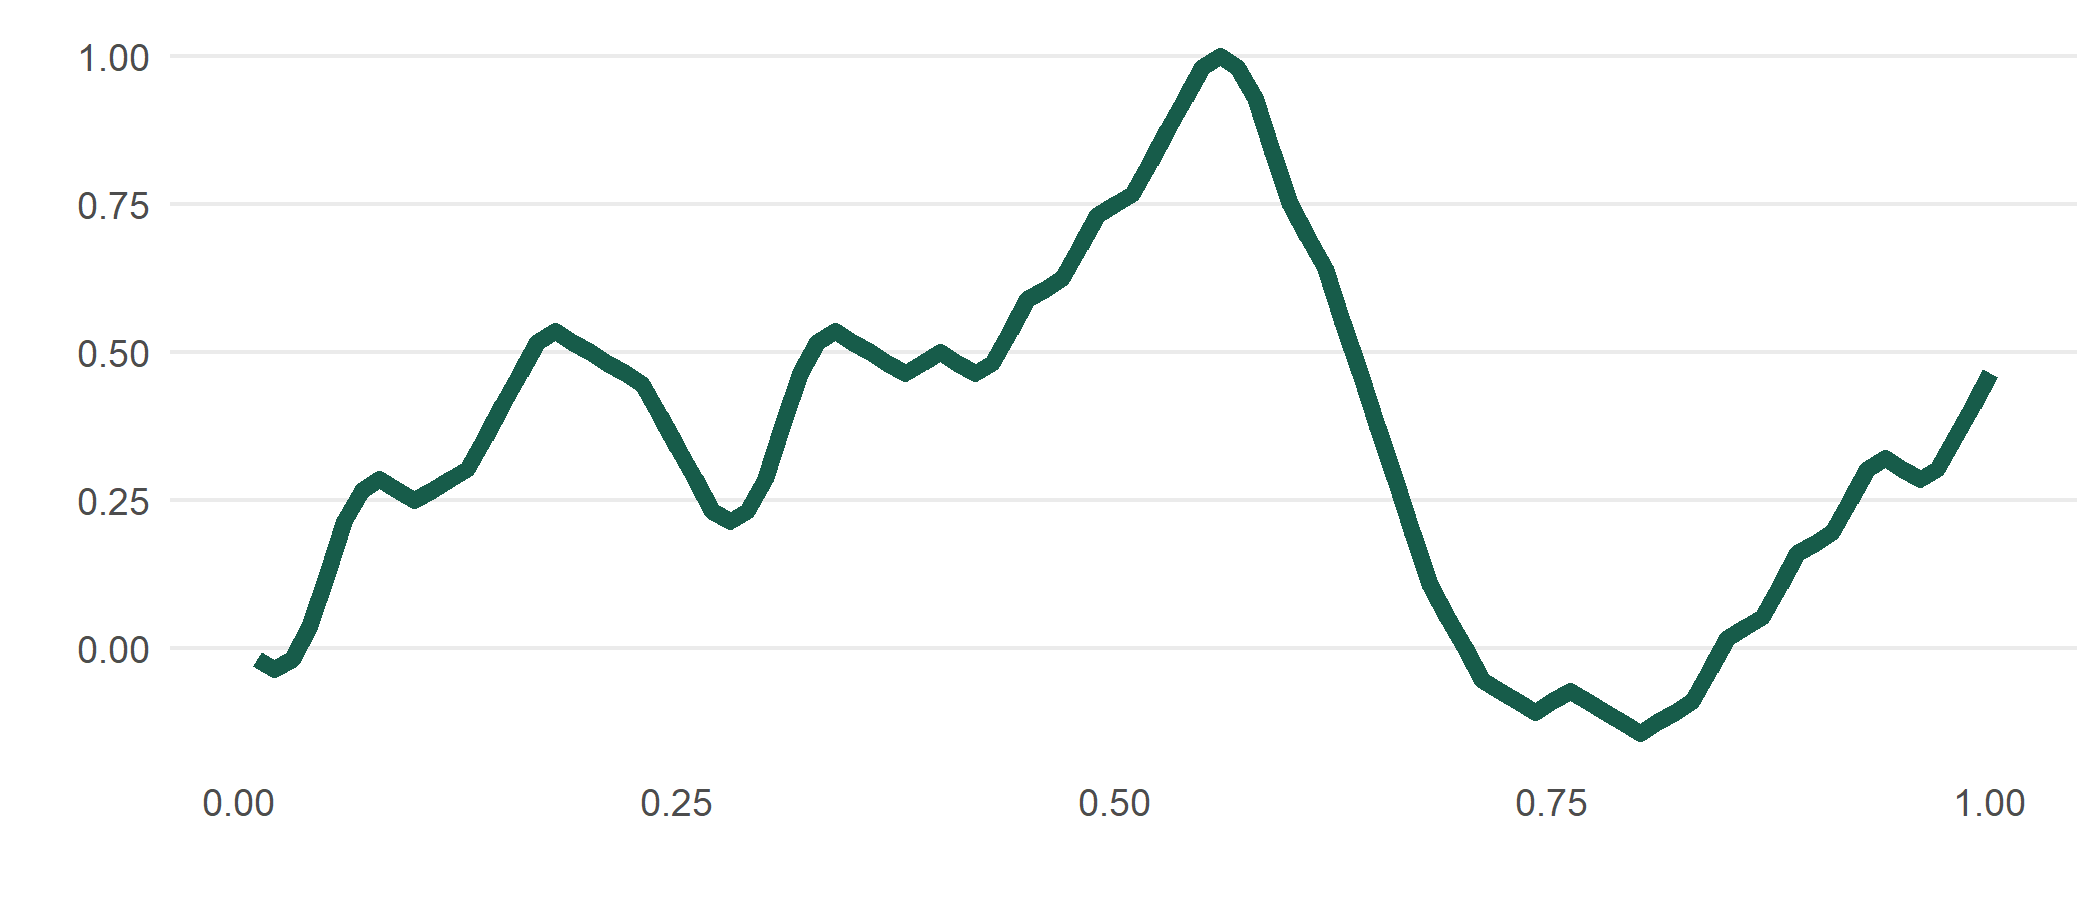
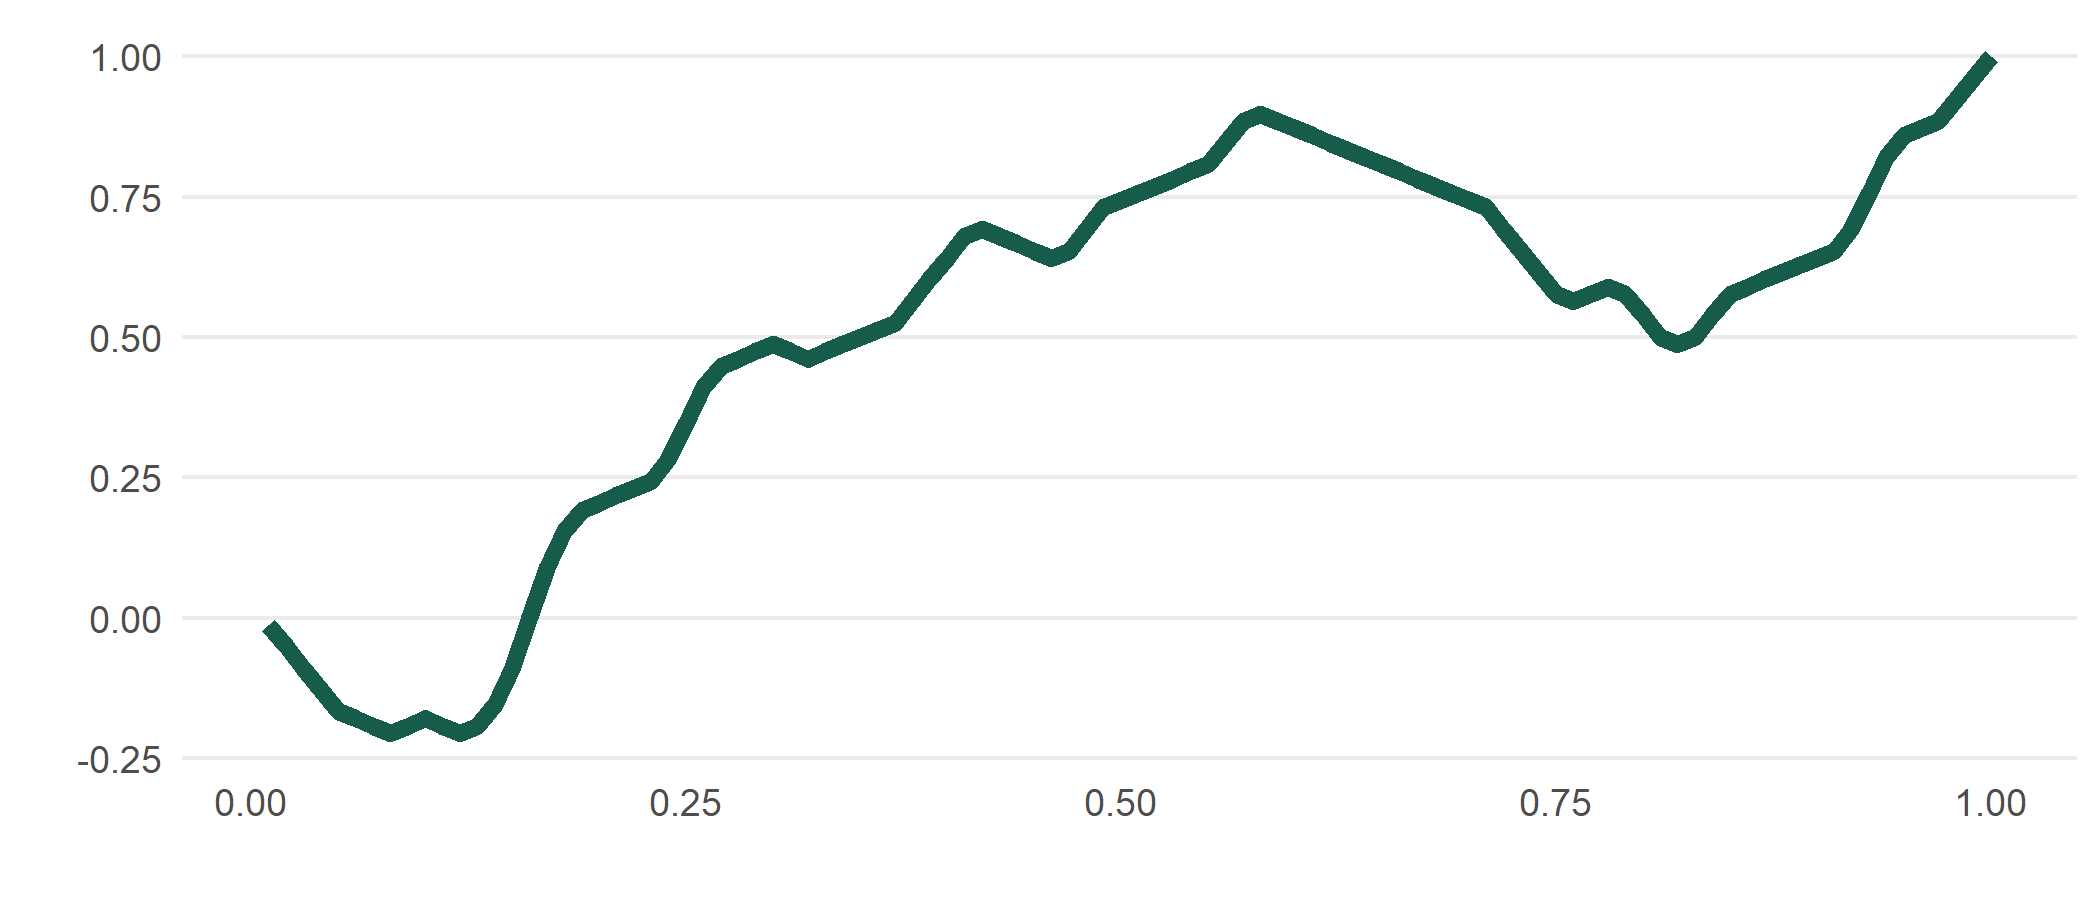
d

diff --git a/README.md b/README.md
@@ -9,10 +9,11 @@
 status](https://github.com/sccmckenzie/meandr/workflows/R-CMD-check/badge.svg)](https://github.com/sccmckenzie/meandr/actions)
 <!-- badges: end -->
 
-`meandr` allows you to easily generate random data that is continuously
-differentiable (essentially a 2nd-order spline). This is particular
-useful for simulating time-series data such as weather conditions - or
-any physical phenomena that maintain a clear local trajectory.
+`meandr` allows for easy generation of random coordinates that are
+continuously differentiable (essentially a 2nd-order spline). This is
+particularly useful for simulating time-series data such as weather
+conditions - or any physical phenomena that maintain a clear local
+trajectory.
 
 ## Installation
 
@@ -25,6 +26,10 @@ devtools::install_github("sccmckenzie/meandr")
 Each call to `meandr()` produces a unique tibble of coordinates.
 
 ``` r
+set.seed(17)
+```
+
+``` r
 library(meandr)
 
 df <- meandr()
@@ -32,16 +37,16 @@ df
 #> # A tibble: 100 x 2
 #>         t       f
 #>     <dbl>   <dbl>
-#>  1 0.01   -0.0179
-#>  2 0.02   -0.0357
-#>  3 0.03   -0.0179
-#>  4 0.04    0.0357
-#>  5 0.05    0.125 
-#>  6 0.06    0.214 
-#>  7 0.0700  0.268 
-#>  8 0.08    0.286 
-#>  9 0.09    0.268 
-#> 10 0.10    0.250 
+#>  1 0.01   -0.0128
+#>  2 0.02   -0.0513
+#>  3 0.03   -0.0897
+#>  4 0.04   -0.128 
+#>  5 0.05   -0.167 
+#>  6 0.06   -0.179 
+#>  7 0.0700 -0.192 
+#>  8 0.08   -0.205 
+#>  9 0.09   -0.192 
+#> 10 0.10   -0.179 
 #> # ... with 90 more rows
 ```
 
